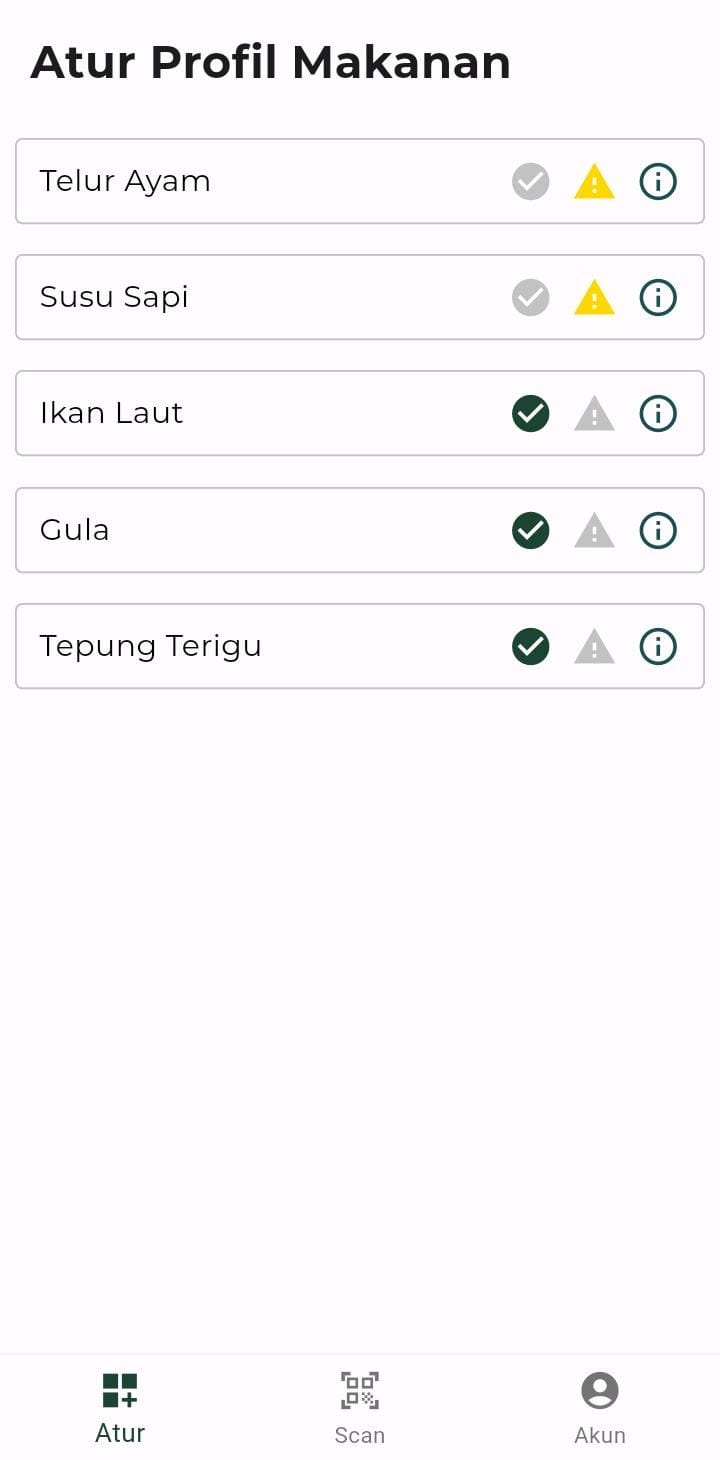
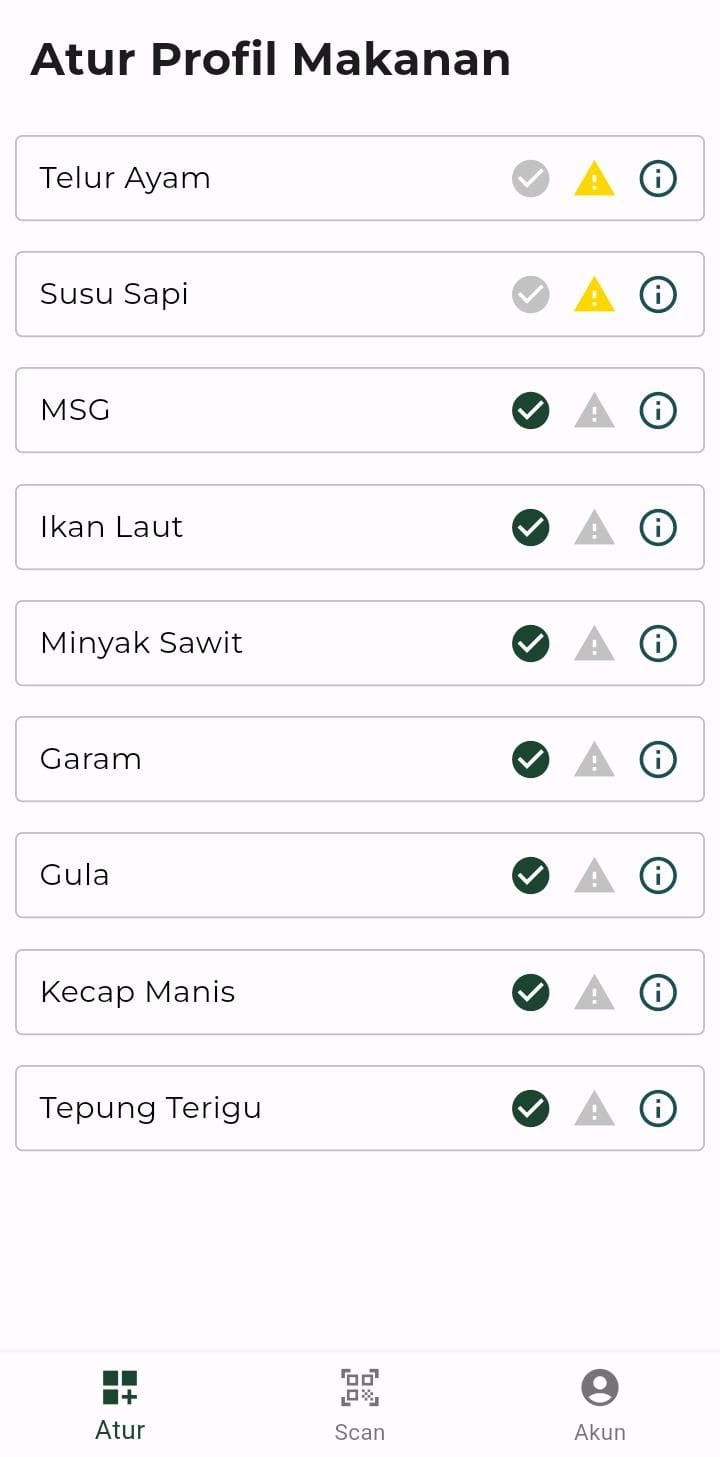
update readme

diff --git a/README.md b/README.md
@@ -70,20 +70,18 @@ use the following QR code:
 
 NutriScope will return details of the product, including image, brief
 description, and list of its ingredients. NutriScope will also highlight
-certain ingredients that the user has marked to avoid, but this feature
-is scheduled to be available on the next release. Please look forward to it!
+certain ingredients that the user has marked to avoid.
 
-![Product Details Screen](images/product-details-screen.jpg)
+![Product Details Screen](images/product-details-screen.png)
 
-The user can also see lists of ingredients that we indexed. The user can also
-mark any ingredients to avoid by clicking the warning icon and unmark it by
+The user can see lists of ingredients that we indexed and mark any 
+ingredients to avoid by clicking the warning icon and unmark it by
 clicking the checkmark button. 
 
 ![Ingredient List Screen](images/ingredient-list-screen.jpg)
 
-This feature, too, is scheduled for the next release. What's available for now,
-though, is ingredient details information. Just click at the rightmost icon
-of the list item, and a new dialog will appear:
+User can see brief explanation and dietary information of each ingredients  
+Just click at the rightmost icon of the list item, and a new dialog will appear:
 
 ![Ingredient Details Screen](images/ingredient-details-screen.jpg)
 
@@ -98,14 +96,13 @@ more on the next release!
 ## What's next?
 
 We're planning on implementing these features somewhere down the line:
-- Mark/unmark ingredient to avoid
-- Show whether a certain product contains any ingredient that user has 
-  specifically marked to avoid
+- Caching
+- More proper state management strategy
 - Better UI overall
 - More auth providers
-- Ingredient fuzzy search (Elastic-Firebase integration on free tier when???)
-- Firebase storage integration for product images
-- Caching
+- Onboarding screen and quick tutorial for new user
+- Ingredients and products fuzzy search (Elastic-Firebase integration on 
+  free tier when???)
 - More things idk
 
 BPOM please notice us ;)
